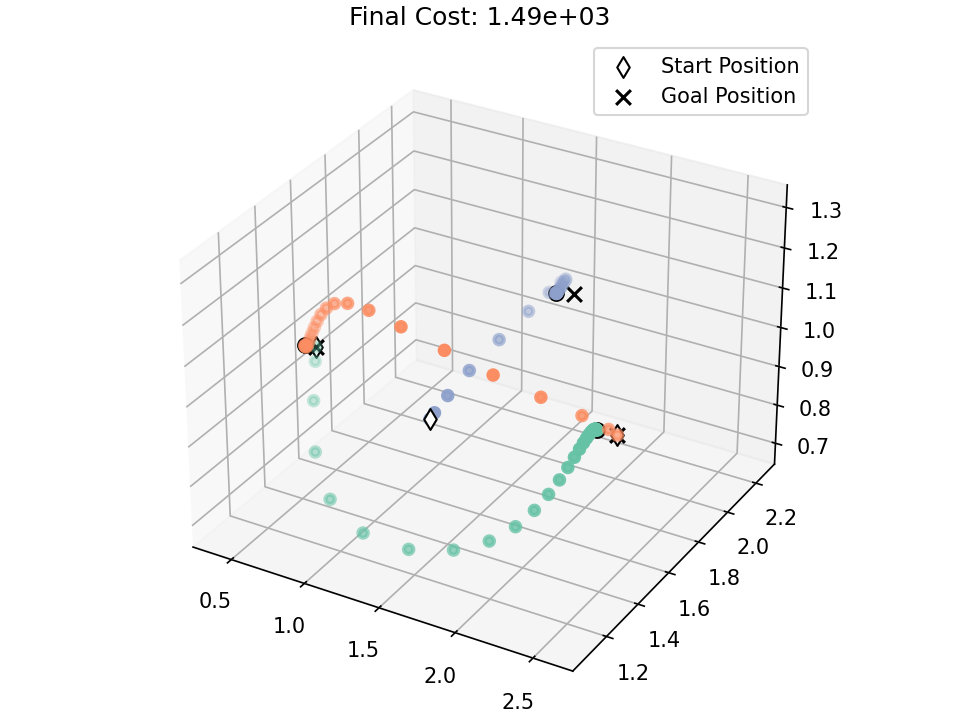
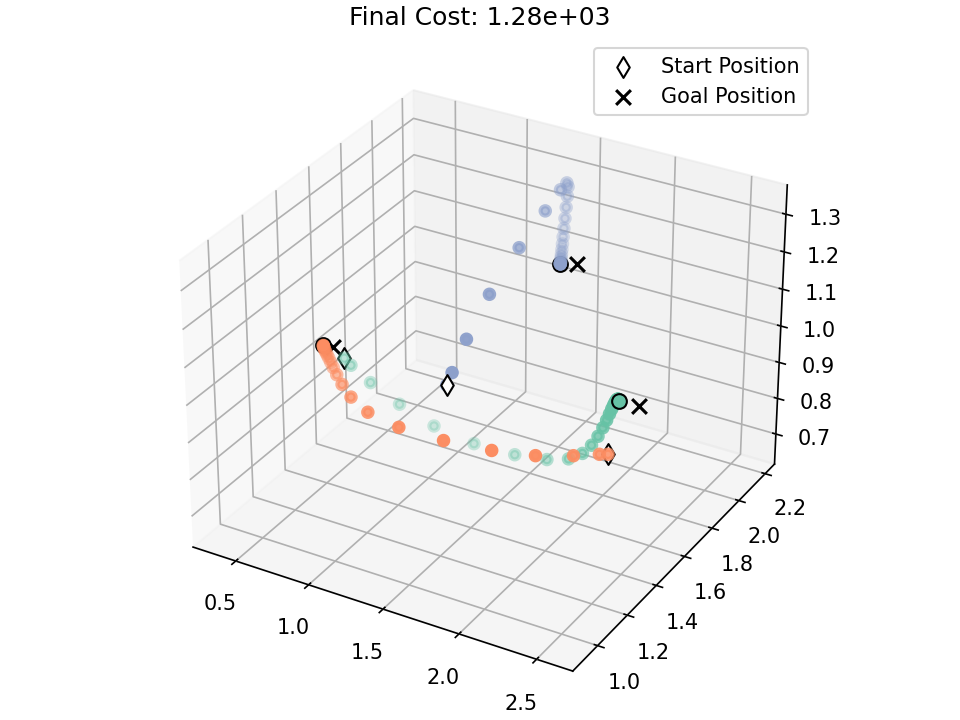
renamed files

diff --git a/distributed_ADMM/main.py b/distributed_ADMM/main.py
@@ -722,14 +722,14 @@ if __name__ == "__main__":
     
     ids = [100 + n for n in range(n_agents)] #Assigning random IDs for agents
     
-    Log_Data = True
+    Log_Data = False
     if not Log_Data:
         # admm_iter = 15
         # admm_iter = 5
         admm_iter = 5
         x0, xr = util.paper_setup_3_quads(True)
 
-        X_full, U_full, obj, avg_SolveTime, obj_history_admm = solve_admm_mpc(n_states,
+        X_full, U_full, obj_centralized, avg_SolveTime, obj_history_admm = solve_admm_mpc(n_states,
                                                             n_inputs,
                                                             n_agents,
                                                             x0,
@@ -743,7 +743,7 @@ if __name__ == "__main__":
         print(f'The average solve time is {avg_SolveTime} seconds!')
         #Plot trajectory
         plt.figure(dpi=150)
-        dpilqr.plot_solve(X_full, float(obj), xr, x_dims, True, 3)
+        dpilqr.plot_solve(X_full, float(obj_centralized), xr, x_dims, True, 3)
         # plt.gca().set_zticks([0.8,1.2], minor=False)
         plt.legend(plt.gca().get_children()[1:3], ["Start Position", "Goal Position"])
         plt.savefig('regular_ADMM_mpc.png')
@@ -754,7 +754,7 @@ if __name__ == "__main__":
         plt.title('Pairwise-distances from C-ADMM')
         plt.savefig('pairwise_distances(ADMM).png')
         
-        X_full, U_full, obj,  avg_SolveTime, obj_history_sova = solve_distributed_rhc(ids, 
+        X_full, U_full, obj_sova,  avg_SolveTime, obj_history_sova = solve_distributed_rhc(ids, 
                                                                    n_states, 
                                                                    n_inputs, 
                                                                    n_agents, 
@@ -769,7 +769,7 @@ if __name__ == "__main__":
         print(f'The average solve time is {avg_SolveTime} seconds!')
         
         plt.figure(dpi=150)
-        dpilqr.plot_solve(X_full, float(obj), xr, x_dims, True, 3)
+        dpilqr.plot_solve(X_full, float(obj_sova), xr, x_dims, True, 3)
         # plt.gca().set_zticks([0.8,1.2], minor=False)
         plt.legend(plt.gca().get_children()[1:3], ["Start Position", "Goal Position"])
         plt.savefig('SOVA_ADMM_mpc.png')
@@ -780,13 +780,13 @@ if __name__ == "__main__":
         plt.savefig('pairwise_distances(SOVA_mpc).png')
         
         
-        plt.figure(dpi=150)
-        plt.plot(obj_history_admm, 'r', label='Consensus-ADMM')
-        plt.plot(obj_history_sova, 'b', label='SOVA-ADMM MPC')
-        plt.ylabel('Total Cost-to-go')
-        plt.xlabel('Horizon')
-        plt.legend(loc='best')
-        plt.savefig('convergence_rate.png')
+        # plt.figure(dpi=150)
+        # plt.plot(np.linalg.norm(obj_centralized - obj_history_admm), 'r', label='Consensus-ADMM')
+        # plt.plot(np.linalg.norm(obj_sova - obj_history_sova), 'b', label='Potential-ADMM')
+        # plt.ylabel('Total Cost-to-go')
+        # plt.xlabel('Horizon')
+        # plt.legend(loc='best')
+        # plt.savefig('convergence_rate.png')
         
 
     if Log_Data:
